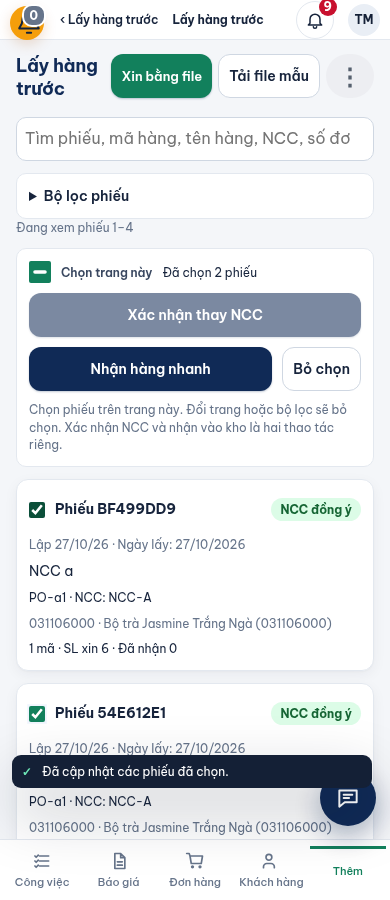
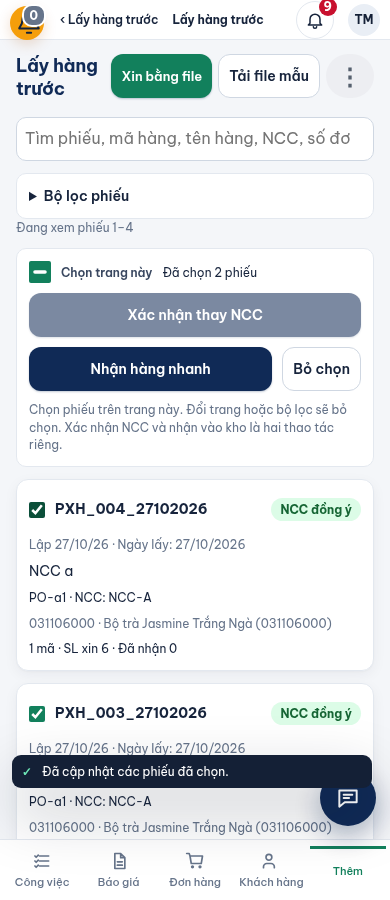
feat: persist daily PXH numbers for early requests

Changed region(s): [[0.1538, 0.7778, 0.5231, 0.8089], [0.1538, 0.56, 0.5231, 0.5911]]

diff --git a/tests/app/early-request-number.test.ts b/tests/app/early-request-number.test.ts
@@ -1,0 +1,56 @@
+import {test} from 'node:test';
+import assert from 'node:assert/strict';
+import {readFileSync} from 'node:fs';
+import {eq} from 'drizzle-orm';
+import {setupEarly} from '../helpers/purchase-early-fixture.ts';
+import {purchaseEarlyRequests as requests} from '../../src/modules/suppliers/early-request-schema.ts';
+import {nextDocumentNumber} from '../../src/core/document-number.ts';
+import {vietnamDate} from '../../src/modules/sales/domain/sales.ts';
+const migration=readFileSync(new URL('../../migrations/postgres/20261027113713_early_request_numbers.sql',import.meta.url),'utf8');
+const ok=(r:any,status=200)=>{assert.equal(r.status,status,JSON.stringify(r.data));return r.data;};
+const body=(clientKey=crypto.randomUUID())=>({clientKey,pickupDate:'2026-10-28',scope:{supplierId:'a'},lines:[{sku:'031106000',quantity:5}]});
+
+test('PXH numbers match the shared document rule, survive edits/submit and retry, reset by Vietnam date and are searchable',async()=>{
+ const f=await setupEarly(),date=vietnamDate().iso,payload=body();
+ const a=ok(await f.call('/purchase-early-requests',f.cookies.mgr,'POST',{...payload,ticketNumber:'PXH_999_01012000'}),201);
+ assert.equal(a.request.ticketNumber,nextDocumentNumber('PXH',date,[]));
+ const replay=ok(await f.call('/purchase-early-requests',f.cookies.mgr,'POST',payload));assert.equal(replay.request.ticketNumber,a.request.ticketNumber);assert.equal(replay.id,a.id);
+ const edited=ok(await f.call('/purchase-early-requests/'+a.id,f.cookies.mgr,'PUT',{revision:a.request.revision,pickupDate:'2026-11-01',lines:[{sku:'031106000',quantity:7}]}));assert.equal(edited.request.ticketNumber,a.request.ticketNumber);
+ const sent=ok(await f.call('/purchase-early-requests/'+a.id+'/submit',f.cookies.mgr,'POST',{revision:edited.request.revision}));assert.equal(sent.request.ticketNumber,a.request.ticketNumber);
+ const found=ok(await f.call('/purchase-early-requests?q='+encodeURIComponent(a.request.ticketNumber),f.cookies.mgr));assert.deepEqual(found.requests.map((r:any)=>r.id),[a.id]);
+ const portal=ok(await f.call('/supplier-portal/early-requests?id='+a.id,f.cookies.ncc));assert.equal(portal.requests[0].ticketNumber,a.request.ticketNumber);
+ const calendar=ok(await f.call('/purchase-receiving-calendar?type=early&q='+a.request.ticketNumber,f.cookies.mgr));assert.ok(calendar.rows.some((r:any)=>r.requestId===a.id&&r.ticketNumber===a.request.ticketNumber));
+ const incoming=ok(await f.call('/purchase-incoming?type=early',f.cookies.mgr));assert.ok(incoming.rows.some((r:any)=>r.earlyRequests.some((e:any)=>e.id===a.id&&e.ticketNumber===a.request.ticketNumber)));
+ const rows=await Promise.all([f.call('/purchase-early-requests',f.cookies.mgr,'POST',body()),f.call('/purchase-early-requests',f.cookies.sa,'POST',body())]);const numbers=rows.map(r=>ok(r,201).request.ticketNumber);assert.equal(new Set(numbers).size,2);assert.ok(numbers.every(n=>n!==a.request.ticketNumber));
+ // Numbers already consumed by a cancelled request remain reserved.
+ const deleted=rows[0]!.data;ok(await f.call('/purchase-early-requests/'+deleted.id,f.cookies.mgr,'DELETE'));const next=ok(await f.call('/purchase-early-requests',f.cookies.mgr,'POST',body()),201);assert.equal(next.request.ticketNumber,nextDocumentNumber('PXH',date,[a.request.ticketNumber,...numbers]));
+ await f.db.insert(requests).values({id:'another-day',clientKey:'another-day',payloadHash:'x',createdBy:'mgr',createdAt:'2026-01-01T17:01:00Z'});assert.equal((await f.db.select().from(requests).where(eq(requests.id,'another-day')))[0]!.ticketNumber,'PXH_001_02012026');
+});
+
+test('split children receive distinct persisted numbers while parent IDs, numbers and allocation/receipt links stay intact',async()=>{
+ const f=await setupEarly(),payload={...body(),lines:[{sku:'031106000',quantity:9000}]};
+ const a=ok(await f.call('/purchase-early-requests',f.cookies.mgr,'POST',payload),201);
+ const split=ok(await f.call('/purchase-early-requests/'+a.id+'/split',f.cookies.mgr,'POST',{}));assert.equal(split.requests.length,2);
+ const childNos=split.requests.map((r:any)=>r.ticketNumber);assert.equal(new Set(childNos).size,2);assert.ok(childNos.every((n:string)=>/^PXH_\d{3,}_\d{8}$/.test(n)&&n!==a.request.ticketNumber));
+ assert.equal((await f.db.select().from(requests).where(eq(requests.id,a.id)))[0]!.ticketNumber,a.request.ticketNumber);
+ const replay=ok(await f.call('/purchase-early-requests/'+a.id+'/split',f.cookies.mgr,'POST',{}));assert.deepEqual(replay.requests.map((r:any)=>r.ticketNumber),childNos);
+});
+
+test('migration upgrades old headers deterministically, keeps deleted numbers, is repeatable and does not change stock/provenance',async()=>{
+ const f=await setupEarly();
+ await f.client.exec('DROP TRIGGER assign_early_request_number ON purchase_early_requests; ALTER TABLE purchase_early_requests DROP COLUMN ticket_number;');
+ for(const [id,created,deleted]of [['old-a','2026-10-26T16:59:00Z',null],['old-b','2026-10-26T17:00:00Z',null],['old-c','2026-10-26T18:00:00Z','2026-10-27T00:00:00Z']])await f.client.query('INSERT INTO purchase_early_requests(id,client_key,payload_hash,created_by,created_at,deleted_at) VALUES($1,$1,\'x\',\'mgr\',$2,$3)',[id,created,deleted]);
+ const before=(await f.client.query<{v:unknown}>("SELECT json_agg(to_jsonb(r) ORDER BY id) v FROM purchase_early_requests r")).rows[0]!.v;
+ const stock=(await f.client.query<{n:number}>('SELECT count(*)::int n FROM stock_moves')).rows[0]!.n;
+ await f.client.exec(migration);const once=await f.client.query('SELECT id,ticket_number FROM purchase_early_requests ORDER BY id');assert.deepEqual(once.rows,[{id:'old-a',ticket_number:'PXH_001_26102026'},{id:'old-b',ticket_number:'PXH_001_27102026'},{id:'old-c',ticket_number:'PXH_002_27102026'}]);
+ assert.deepEqual((await f.client.query<{v:unknown}>("SELECT json_agg(to_jsonb(r)-'ticket_number' ORDER BY id) v FROM purchase_early_requests r")).rows[0]!.v,before);assert.equal((await f.client.query<{n:number}>('SELECT count(*)::int n FROM stock_moves')).rows[0]!.n,stock);
+ await f.client.exec(migration);assert.deepEqual((await f.client.query('SELECT id,ticket_number FROM purchase_early_requests ORDER BY id')).rows,once.rows);
+ await f.db.insert(requests).values({id:'after-upgrade',clientKey:'after-upgrade',payloadHash:'x',createdBy:'mgr',createdAt:'2026-10-27T12:00:00Z'});assert.equal((await f.db.select().from(requests).where(eq(requests.id,'after-upgrade')))[0]!.ticketNumber,'PXH_003_27102026');
+ // Re-deploy does not renumber any request and large sequence numbers are not truncated.
+ await f.db.insert(requests).values({id:'large',ticketNumber:'PXH_999_27102026',clientKey:'large',payloadHash:'x',createdBy:'mgr',createdAt:'2026-10-27T12:00:00Z'});
+ await f.db.insert(requests).values({id:'large-next',clientKey:'large-next',payloadHash:'x',createdBy:'mgr',createdAt:'2026-10-27T12:00:00Z'});assert.equal((await f.db.select().from(requests).where(eq(requests.id,'large-next')))[0]!.ticketNumber,'PXH_1000_27102026');
+ await f.client.exec(migration);assert.equal((await f.db.select().from(requests).where(eq(requests.id,'large-next')))[0]!.ticketNumber,'PXH_1000_27102026');
+ await assert.rejects(f.db.insert(requests).values({id:'duplicate-number',ticketNumber:'PXH_1000_27102026',clientKey:'duplicate-number',payloadHash:'x',createdBy:'mgr',createdAt:'2026-10-27T12:00:00Z'}));
+ const security=(await f.client.query<{prosecdef:boolean}>("SELECT prosecdef FROM pg_proc WHERE oid='public.assign_early_request_number()'::regprocedure")).rows[0]!;assert.equal(security.prosecdef,false);
+ assert.ok(readFileSync(new URL('../../.github/workflows/deploy-api.yml',import.meta.url),'utf8').includes('20261027113713_early_request_numbers.sql'));
+});

diff --git a/trial-ui/purchase-early-requests.js b/trial-ui/purchase-early-requests.js
@@ -47,7 +47,7 @@ export function initEarlyRequests({api,host,canWrite=()=>false,portal=false,supp
     list.replaceChildren();operations.replaceChildren();selected.clear();selectable=[];all.checked=false;syncBatch();bulk.hidden=portal||!canViewPortal;
     if(!requests.length) list.append(el('p','muted','Chưa có phiếu xin lấy trước.'));
     if(!portal&&canViewPortal)for(const request of requests){
-      const groups=supplierSlips(request),bar=el('div','row-gap');bar.append(el('span','small','Phiếu '+request.id.slice(0,8).toUpperCase()));
+      const groups=supplierSlips(request),bar=el('div','row-gap');bar.append(el('span','small','Phiếu '+(request.ticketNumber||request.id.slice(0,8).toUpperCase())));
       if(groups.length>1)bar.append(btn('Tách thành '+groups.length+' phiếu NCC',()=>changeRequest(request,'split')));
       operations.append(bar);
     }
@@ -55,7 +55,7 @@ export function initEarlyRequests({api,host,canWrite=()=>false,portal=false,supp
     for(const request of requests.flatMap(r=>!portal&&r.requestStatus==='submitted'?supplierSlips(r):[r])) {
       const card=el('article','card early-request-card'),head=el('div','row-gap early-request-head');card.dataset.requestId=request.id;
       const browse=portal&&portalNavigation?.canBrowse(),heading=el('strong'),ordersForHeading=new Map(request.lines.flatMap(l=>l.allocations).map(a=>[a.orderId,a.ticketNumber]));
-      const titleText=request.slipLabel||'Phiếu lấy trước '+request.id.slice(0,8).toUpperCase();
+      const titleText=request.slipLabel||'Phiếu lấy trước '+(request.ticketNumber||request.id.slice(0,8).toUpperCase());
       if(!portal&&request.groupKey&&ordersForHeading.size===1){const a=el('a','early-order-link',titleText);a.href='#/purchases/'+encodeURIComponent(ordersForHeading.keys().next().value);heading.append(a);}
       else if(browse){const a=el('a','early-order-link',titleText);a.href='/#/early-requests/'+encodeURIComponent(request.id);heading.append(a);}
       else heading.append(el('span','',titleText));
@@ -123,7 +123,7 @@ export function initEarlyRequests({api,host,canWrite=()=>false,portal=false,supp
     const slip=action==='cancel-slip',remove=action==='delete'||action==='cancel-delete'||slip,cancel=action==='cancel-delete'||slip,modal=confirmDialog=el('dialog','modal early-request-dialog'),head=el('div','modal-head'),body=el('div','modal-body'),foot=el('div','modal-foot');let busy=false;
     const close=btn('Đóng',()=>{if(!busy)modal.close();});head.append(el('h2','',cancel?'Huỷ phiếu xin hàng và xoá':remove?'Xoá phiếu xin hàng':'Tách theo số đơn NCC'),close);
     const groups=supplierSlips(request);
-    body.append(el('p','',slip?'Huỷ và xoá '+request.slipLabel+', gồm '+request.lines.length+' mã hàng.':remove?(cancel?'Huỷ yêu cầu xin lấy trước và xoá toàn bộ phiếu ':'Xoá toàn bộ phiếu ')+request.id.slice(0,8).toUpperCase()+', gồm '+groups.length+' nhóm nguồn và '+request.lines.length+' mã hàng.':'Lưu '+groups.length+' phiếu riêng theo NCC + số đơn NCC; giữ nguyên số lượng và trạng thái phản hồi.'));
+    body.append(el('p','',slip?'Huỷ và xoá '+request.slipLabel+', gồm '+request.lines.length+' mã hàng.':remove?(cancel?'Huỷ yêu cầu xin lấy trước và xoá toàn bộ phiếu ':'Xoá toàn bộ phiếu ')+(request.ticketNumber||request.id.slice(0,8).toUpperCase())+', gồm '+groups.length+' nhóm nguồn và '+request.lines.length+' mã hàng.':'Lưu '+groups.length+' phiếu riêng theo NCC + số đơn NCC; giữ nguyên số lượng và trạng thái phản hồi.'));
     if(slip)body.append(el('p','','Chỉ huỷ phiếu NCC này. Các phiếu NCC khác được giữ nguyên.'));
     for(const group of groups)body.append(el('p','small',group.supplierName+' · '+group.slipLabel+' · '+group.lines.map(l=>l.sku+' × '+number(l.quantity)).join('; ')));
     body.append(el('p','muted small',cancel?'Sau xác nhận, phiếu không còn trên CRM và cổng NCC, không thể tiếp tục nhận theo phiếu này. Phiếu NCC đã phát sinh nhận hàng sẽ bị chặn. Phiếu NCC chưa nhận vẫn được huỷ riêng. Đơn mua NCC, tồn kho và nhật ký đối soát được giữ nguyên.':'Phiếu đã phát sinh nhận hàng sẽ bị chặn. Không thay đổi tồn kho hoặc xoá đơn mua NCC.'));

diff --git a/trial-ui/early-list-bulk.js b/trial-ui/early-list-bulk.js
@@ -22,7 +22,7 @@ export function earlyListBulk({api,onSaved}){
  }
  all.onchange=()=>{selected.clear();if(all.checked)for(const r of visible)if(eligible(r))selected.set(r.id,r);sync();};
  function reset(requests=[],permissions={}){generation++;visible=requests;canConfirm=!!permissions.canViewPortal;canReceive=!!permissions.canReceive;selected.clear();checks.clear();error.textContent='';host.hidden=!canConfirm&&!canReceive;sync();}
- function checkbox(request){if(!eligible(request))return null;const input=el('input');input.type='checkbox';input.className='early-list-check';input.setAttribute('aria-label','Chọn phiếu '+request.id.slice(0,8).toUpperCase());checks.set(request.id,input);input.onchange=()=>{if(input.checked)selected.set(request.id,request);else selected.delete(request.id);sync();};sync();return input;}
+ function checkbox(request){if(!eligible(request))return null;const input=el('input');input.type='checkbox';input.className='early-list-check';input.setAttribute('aria-label','Chọn phiếu '+(request.ticketNumber||request.id.slice(0,8).toUpperCase()));checks.set(request.id,input);input.onchange=()=>{if(input.checked)selected.set(request.id,request);else selected.delete(request.id);sync();};sync();return input;}
  async function fresh(ids){const requests=[];for(const id of ids){const data=await api('/purchase-early-requests?id='+encodeURIComponent(id));const request=data.requests.find(r=>r.id===id);if(!request)throw Error('Phiếu đã tách, huỷ hoặc thay đổi. Tải lại danh sách rồi chọn lại.');requests.push(request);}return requests;}
  async function run(action){if(busy||!selected.size)return;busy=true;const mine=generation;sync();error.textContent='';
   try{const requests=await fresh(visible.filter(r=>selected.has(r.id)).map(r=>r.id));if(mine!==generation)return;if(action==='confirm')review(requests);else await openEarlyQuickReceipt({api,requests,onSaved});}
@@ -34,7 +34,7 @@ export function earlyListBulk({api,onSaved}){
   const modal=el('dialog','modal early-request-dialog early-bulk-confirm'),head=el('div','modal-head'),body=el('div','modal-body'),foot=el('div','modal-foot');modal.dataset.mobileActions='off';let saving=false;
   const close=button('Đóng',()=>{if(!saving)modal.close();});head.append(el('h2','','Xác nhận thay NCC các phiếu đã chọn'),close);
   body.append(el('p','','Chỉ xác nhận các dòng đang chờ mà NCC đã đồng ý. Không nhận hàng hay cộng tồn kho. Các dòng đã phản hồi giữ nguyên.'));
-  for(const r of targets)body.append(el('p','','Phiếu '+r.id.slice(0,8).toUpperCase()+' · '+r.lines.filter(l=>l.allocations.some(a=>a.status==='pending')).map(l=>l.sku+' · '+l.allocations.filter(a=>a.status==='pending').map(a=>a.supplierName+' / '+(a.supplierOrderNo||a.ticketNumber)+' / '+Number(a.quantity).toLocaleString('vi-VN')+' '+(l.unit||'')).join('; ')).join('; ')));
+  for(const r of targets)body.append(el('p','','Phiếu '+(r.ticketNumber||r.id.slice(0,8).toUpperCase())+' · '+r.lines.filter(l=>l.allocations.some(a=>a.status==='pending')).map(l=>l.sku+' · '+l.allocations.filter(a=>a.status==='pending').map(a=>a.supplierName+' / '+(a.supplierOrderNo||a.ticketNumber)+' / '+Number(a.quantity).toLocaleString('vi-VN')+' '+(l.unit||'')).join('; ')).join('; ')));
   const message=el('p','error');message.setAttribute('role','alert');body.append(message);
   const save=button('Xác nhận '+targets.length+' phiếu',async()=>{if(saving)return;saving=busy=true;close.disabled=save.disabled=true;sync();message.textContent='';
    try{await api('/purchase-early-requests/manager-confirm-batch','POST',{allocationIds});modal.close();await onSaved();}

diff --git a/trial-ui/kho.js b/trial-ui/kho.js
@@ -54,7 +54,7 @@ export function initKhoHome({ api, root, today }) {
       if(d.shipping){cards.append(card('🛻','Giao hôm nay & trễ','#/deliveries',d.shipping.due,d.shipping.tomorrow+' chuyến ngày mai · '+d.shipping.failed+' giao lỗi',d.shipping.due?'warn':''));lists.append(section('🛻 Giao hàng & giao lỗi cần xử lý','#/deliveries',d.shipping.rows.map(x=>({href:'#/deliveries?deliveryId='+encodeURIComponent(x.id),title:x.deliveryNo+' · '+x.customerName,sub:[x.status==='failed'?'Giao lỗi':x.plannedDate<t?'Trễ hẹn':x.plannedDate===t?'Hôm nay':'Ngày mai',dmy(x.plannedDate),x.address].filter(Boolean).join(' · ')})),'Không có chuyến giao chờ xử lý đến ngày mai.'));}
       cards.append(card('⇄','Điều chuyển kho','#/transfers',d.transfers.count,d.transfers.pending+' chờ duyệt · '+d.transfers.approved+' chờ chuyển',d.transfers.count?'warn':''));
       lists.append(section('⇄ Phiếu điều chuyển đang mở','#/transfers',d.transfers.rows.map(x=>({href:'#/transfers/'+encodeURIComponent(x.id),title:x.transferNo,sub:x.fromName+' → '+x.toName+' · '+(x.status==='approved'?'Đã duyệt – chờ kho chuyển':'Chờ duyệt')})),'Không có phiếu điều chuyển chờ xử lý.'));
-      if(d.early){cards.append(card('📝','Phiếu xin hàng trước','#/receiving?type=early&workOnly=1',d.early.count,'phiếu đã gửi, còn chờ NCC hoặc nhận hàng',d.early.count?'warn':''));lists.append(section('📝 Phiếu xin hàng trước cần theo dõi','#/receiving?type=early&workOnly=1',d.early.rows.map(x=>({href:'#/early-requests/'+encodeURIComponent(x.requestId),title:'Phiếu '+x.requestId.slice(0,8).toUpperCase()+' · '+x.supplierName,sub:[x.date?'Ngày lấy '+dmy(x.date):'Chưa hẹn ngày',x.lines.some(l=>l.receiptOptions?.length)?'NCC đồng ý – còn hàng chờ nhận':'Chờ NCC phản hồi',x.lines.length+' mã'].join(' · ')})),'Không có phiếu xin hàng trước chờ xử lý.'));}
+      if(d.early){cards.append(card('📝','Phiếu xin hàng trước','#/receiving?type=early&workOnly=1',d.early.count,'phiếu đã gửi, còn chờ NCC hoặc nhận hàng',d.early.count?'warn':''));lists.append(section('📝 Phiếu xin hàng trước cần theo dõi','#/receiving?type=early&workOnly=1',d.early.rows.map(x=>({href:'#/early-requests/'+encodeURIComponent(x.requestId),title:(x.ticketNumber||('Phiếu '+x.requestId.slice(0,8).toUpperCase()))+' · '+x.supplierName,sub:[x.date?'Ngày lấy '+dmy(x.date):'Chưa hẹn ngày',x.lines.some(l=>l.receiptOptions?.length)?'NCC đồng ý – còn hàng chờ nhận':'Chờ NCC phản hồi',x.lines.length+' mã'].join(' · ')})),'Không có phiếu xin hàng trước chờ xử lý.'));}
       if(d.sapo){cards.append(card('📥','Chờ nhập kho Sapo','#/purchases?state=sapo',d.sapo.count,'đơn có phiếu nhận chờ xử lý Sapo',d.sapo.count?'warn':''));lists.append(section('📥 Phiếu nhận chờ nhập Sapo','#/purchases?state=sapo',d.sapo.rows.map(x=>({href:'#/purchases/'+encodeURIComponent(x.id),title:x.ticketNumber+' · '+x.supplierName,sub:x.pending+' phiếu nhận chờ nhập Sapo hoặc cần kiểm tra lỗi'})),'Không có phiếu nhận chờ nhập Sapo.'));}
     }catch(e){if(my===req){cards.replaceChildren();lists.replaceChildren(el('p','error card',e.message||'Không tải được việc cần làm. Bấm Làm mới để thử lại.'));}}
     finally{if(my===req)reload.disabled=false;}

diff --git a/trial-ui/early-receipt-quick.js b/trial-ui/early-receipt-quick.js
@@ -10,7 +10,7 @@ export async function openEarlyQuickReceipt({api,request,requests=request?[reque
  if(active?.isConnected){active.focus();return;}
  const modal=active=el('dialog','modal early-request-dialog early-quick-receipt'),head=el('div','modal-head'),form=el('form'),body=el('div','modal-body'),foot=el('div','modal-foot');
  modal.dataset.mobileActions='off';
- const title=el('div');title.append(el('h2','','Nhận hàng nhanh theo phiếu xin'),el('p','small muted',requests.map(r=>'Phiếu '+r.id.slice(0,8).toUpperCase()+(r.slipLabel?' · '+r.slipLabel:'')).join(' · ')));
+ const title=el('div');title.append(el('h2','','Nhận hàng nhanh theo phiếu xin'),el('p','small muted',requests.map(r=>'Phiếu '+(r.ticketNumber||r.id.slice(0,8).toUpperCase())+(r.slipLabel?' · '+r.slipLabel:'')).join(' · ')));
  const close=el('button','btn secondary','Đóng');close.type='button';close.dataset.noBusy='';head.append(title,close);
  const status=el('p','small muted','Đang tải các mã còn được nhận…'),error=el('p','error');error.setAttribute('role','alert');status.setAttribute('role','status');
  const today=new Date(Date.now()+7*3600000).toISOString().slice(0,10),date=Object.assign(el('input'),{type:'date',value:today,max:today,required:true});date.setAttribute('aria-label','Ngày nhận');
@@ -37,7 +37,7 @@ export async function openEarlyQuickReceipt({api,request,requests=request?[reque
    const limit=quantity(Math.min(line.remaining,allocs.reduce((s,a)=>s+Number(a.remainingToReceive||0),0)));if(!source||limit<=0)continue;
    const key=context.orderId+':'+line.lineId,budget=quantity(Math.min(...allocs.map(a=>Number(a.purchaseRemaining??line.remaining))));budgets.set(key,Math.min(budgets.get(key)??Infinity,budget));
    const card=el('section','recv-card'),input=Object.assign(el('input'),{type:'number',min:'0',step:'0.001',max:String(limit),value:String(limit),required:true});input.inputMode='decimal';input.setAttribute('aria-label','SL nhận '+line.sku+' · '+context.ticketNumber);input.dataset.earlyQuickQuantity=line.lineId;
-   card.append(el('b','',source.name.includes(line.sku)?source.name:source.name+' ('+line.sku+')'),el('p','small muted','Phiếu '+request.id.slice(0,8).toUpperCase()+' · '+context.ticketNumber+' · Còn được nhận '+num(limit)+' '+(source.unit||'')),field('Số lượng hàng đạt nhập kho',input));cards.append(card);rows.push({input,limit,context,line,request,key});controls.push(input);input.addEventListener('input',sync);
+   card.append(el('b','',source.name.includes(line.sku)?source.name:source.name+' ('+line.sku+')'),el('p','small muted','Phiếu '+(request.ticketNumber||request.id.slice(0,8).toUpperCase())+' · '+context.ticketNumber+' · Còn được nhận '+num(limit)+' '+(source.unit||'')),field('Số lượng hàng đạt nhập kho',input));cards.append(card);rows.push({input,limit,context,line,request,key});controls.push(input);input.addEventListener('input',sync);
   }
   if(!rows.length)throw Error('Phiếu không còn mã được nhận. Đóng và tải lại phiếu.');
   const assigned=new Map();for(const r of rows){const value=quantity(Math.max(0,Math.min(r.limit,budgets.get(r.key)-(assigned.get(r.key)||0))));r.input.value=String(value);assigned.set(r.key,(assigned.get(r.key)||0)+value);}

diff --git a/src/modules/suppliers/api/incoming-view.ts b/src/modules/suppliers/api/incoming-view.ts
@@ -13,7 +13,7 @@ export async function incomingBySkuView(db: Db, query: URLSearchParams, today: s
   const saved = type==='purchase'||!sources.size ? [] : await db.select({request:requests,line:lines,allocation:allocations})
     .from(requests).innerJoin(lines,eq(lines.requestId,requests.id)).innerJoin(allocations,eq(allocations.requestLineId,lines.id))
     .where(and(isNull(requests.deletedAt),inArray(allocations.purchaseLineId,[...sources.keys()]))).orderBy(desc(requests.createdAt),desc(requests.id),asc(lines.lineNo),asc(allocations.id));
-  type Early = {id:string;lineId:string;createdAt:string;pickupDate:string;requestStatus:string;status:string;quantity:number;supplierId:string;supplierName:string;orders:{id:string;ticketNumber:string;quantity:number}[]};
+  type Early = {id:string;ticketNumber:string;lineId:string;createdAt:string;pickupDate:string;requestStatus:string;status:string;quantity:number;supplierId:string;supplierName:string;orders:{id:string;ticketNumber:string;quantity:number}[]};
   const bySku = new Map<string,Map<string,{value:Early;statuses:string[]}>>();
   for(const {request,line,allocation} of saved){
     const source=sources.get(allocation.purchaseLineId)!;
@@ -21,7 +21,7 @@ export async function incomingBySkuView(db: Db, query: URLSearchParams, today: s
     const grouped=bySku.get(line.sku)||new Map<string,{value:Early;statuses:string[]}>();bySku.set(line.sku,grouped);
     const key=request.id+':'+allocation.supplierId;
     let entry=grouped.get(key);
-    if(!entry){entry={value:{id:request.id,lineId:line.id,createdAt:request.createdAt,pickupDate:request.pickupDate,requestStatus:request.status,status:'',quantity:0,
+    if(!entry){entry={value:{id:request.id,ticketNumber:request.ticketNumber,lineId:line.id,createdAt:request.createdAt,pickupDate:request.pickupDate,requestStatus:request.status,status:'',quantity:0,
       supplierId:allocation.supplierId,supplierName:source.order.supplierName,orders:[]},statuses:[]};grouped.set(key,entry);}
     entry.value.quantity+=allocation.quantity;entry.statuses.push(allocation.status);
     entry.value.orders.push({id:source.order.id,ticketNumber:source.order.ticketNumber,quantity:allocation.quantity});

diff --git a/src/modules/suppliers/early-request-schema.ts b/src/modules/suppliers/early-request-schema.ts
@@ -4,12 +4,12 @@ import { employees } from '../staff/schema.ts';
 import { incomingShipmentLines, suppliers } from './schema.ts';
 
 export const purchaseEarlyRequests = pgTable('purchase_early_requests', {
-  id: text('id').primaryKey(), clientKey: text('client_key').notNull(), payloadHash: text('payload_hash').notNull(),
+  id: text('id').primaryKey(), ticketNumber:text('ticket_number').notNull().default(''), clientKey: text('client_key').notNull(), payloadHash: text('payload_hash').notNull(),
   createdBy: text('created_by').notNull().references(() => employees.id), createdAt: text('created_at').notNull(),
   status: text('status',{enum:['draft','submitted']}).notNull().default('submitted'), pickupDate: text('pickup_date').notNull().default(''),
   deletedAt:text('deleted_at'),deletedBy:text('deleted_by').references(()=>employees.id),
   scope: text('scope').notNull().default('{}'), updatedAt: text('updated_at').notNull().default(''), revision: bigint('revision',{mode:'number'}).notNull().default(1),
-}, t => [uniqueIndex('idx_purchase_early_requests_key').on(t.createdBy,t.clientKey), index('idx_purchase_early_requests_created').on(t.createdAt),
+}, t => [uniqueIndex('idx_purchase_early_requests_number').on(t.ticketNumber).where(sql`${t.ticketNumber}<>''`), uniqueIndex('idx_purchase_early_requests_key').on(t.createdBy,t.clientKey), index('idx_purchase_early_requests_created').on(t.createdAt),
   check('chk_purchase_early_request_status',sql`${t.status} in ('draft','submitted')`)]).enableRLS();
 export const purchaseEarlyRequestLines = pgTable('purchase_early_request_lines', {
   id: text('id').primaryKey(), requestId: text('request_id').notNull().references(() => purchaseEarlyRequests.id),

diff --git a/src/modules/suppliers/api/receiving-calendar.ts b/src/modules/suppliers/api/receiving-calendar.ts
@@ -54,10 +54,10 @@ export async function receivingCalendar(db: Db, params: URLSearchParams, today: 
     if (!purchase || (supplier && allocation.supplierId !== supplier)) continue;
     const date = request.pickupDate || null;
     if (!matchesDate(date) || (sku && !fold(line.sku).includes(sku))) continue;
-    if (q && !fold(['Phiếu xin lấy trước',request.id,purchase.ticketNumber,supplierName,line.sku,line.name].join(' ')).includes(q)) continue;
+    if (q && !fold(['Phiếu xin lấy trước',request.id,request.ticketNumber,purchase.ticketNumber,supplierName,line.sku,line.name].join(' ')).includes(q)) continue;
     const key = 'early:'+request.id+':'+allocation.supplierId;
     let group=groups.get(key);
-    if(!group){group={type:'early',orderId:purchase.orderId,requestId:request.id,supplierId:allocation.supplierId,ticketNumber:'Phiếu xin lấy trước',supplierName,date,createdAt:request.createdAt,lines:[]};groups.set(key,group);}
+    if(!group){group={type:'early',orderId:purchase.orderId,requestId:request.id,supplierId:allocation.supplierId,ticketNumber:request.ticketNumber||'Phiếu xin lấy trước',supplierName,date,createdAt:request.createdAt,lines:[]};groups.set(key,group);}
     let saved=group.lines.find(l=>l.lineId===line.id);
     if(!saved){const own=ownLines.get(line.id+':'+allocation.supplierId)!;saved={lineId:line.id,sku:line.sku,name:line.name,unit:line.unit,left:0,requestedQty:own.quantity,
       status:request.status==='draft'?'draft':own.statuses.every(s=>s===own.statuses[0])?own.statuses[0]!:'mixed',

diff --git a/trial-ui/early-request-page.js b/trial-ui/early-request-page.js
@@ -49,7 +49,7 @@ export function initEarlyRequestPage({api,root,go,today,toast}){
   try{const data=await api('/purchase-early-requests?'+p);if(mine!==sequence)return;
    canSend=!!data.canSend;file.hidden=incoming.hidden=!canSend;nextOffset=data.nextOffset;list.replaceChildren();selection.reset(data.requests,data);
    for(const request of data.requests){
-    const card=node('article','card early-page-card'),head=node('div','early-page-card-head'),open=node('a','data-link','Phiếu '+request.id.slice(0,8).toUpperCase());open.href=requestHref(request.id);
+    const card=node('article','card early-page-card'),head=node('div','early-page-card-head'),open=node('a','data-link',request.ticketNumber||'Phiếu '+request.id.slice(0,8).toUpperCase());open.href=requestHref(request.id);
     const title=node('div','early-list-title'),check=selection.checkbox(request);if(check)title.append(check);title.append(open);head.append(title,node('span','sup-pill early-status early-status-'+request.status,labels[request.status]||request.status));
     const allocations=request.lines.flatMap(l=>l.allocations),names=[...new Set(allocations.map(a=>a.supplierName))],orders=[...new Set(allocations.map(a=>a.ticketNumber+(a.supplierOrderNo?' · NCC: '+a.supplierOrderNo:'')))];
     const created=new Intl.DateTimeFormat('vi-VN',{dateStyle:'short',timeZone:'Asia/Ho_Chi_Minh'}).format(new Date(request.createdAt));

diff --git a/trial-ui/purchase-early-file.js b/trial-ui/purchase-early-file.js
@@ -111,7 +111,7 @@ export function openEarlyRequestFile({api,loadXlsx,suppliers,today,go,requestHre
       const savedRequests=data.requests||[saved];
       status.textContent='Đã lưu '+savedRequests.length+' phiếu nháp theo số đơn NCC. Kiểm tra từng phiếu trước khi gửi NCC.';
       for(const request of savedRequests){
-      const ref=request.lines?.[0]?.allocations?.[0]?.supplierOrderNo||request.lines?.[0]?.allocations?.[0]?.ticketNumber||request.id.slice(0,8);
+      const ref=request.ticketNumber||request.lines?.[0]?.allocations?.[0]?.supplierOrderNo||request.lines?.[0]?.allocations?.[0]?.ticketNumber||request.id.slice(0,8);
       const link=el('a','btn primary',savedRequests.length>1?'Mở phiếu · '+ref:'Mở phiếu / Gửi NCC');link.href=requestHref(request.id);
       link.addEventListener('click',e=>{if(!e.ctrlKey&&!e.metaKey&&e.button===0){e.preventDefault();dialog.close();go(link.getAttribute('href'));}});foot.append(link);}
     }catch(e){uncertain=!e.status||e.status>=500;error.textContent=(e.message||'Không lưu được phiếu.')+(uncertain?' Chưa rõ kết quả; bấm Thử lưu lại để kiểm tra đúng lần lưu này.':'');}

diff --git a/trial-ui/purchase-incoming.js b/trial-ui/purchase-incoming.js
@@ -55,7 +55,7 @@ export function initPurchaseIncoming({ api, host, go }) {
   }
   const requestLabels={draft:'Nháp — chưa gửi NCC',pending:'Chờ NCC xác nhận',accepted:'NCC đồng ý',rejected:'NCC từ chối',mixed:'NCC phản hồi khác nhau'};
   function requestNode(request){
-    const row=el('div','incoming-order incoming-early-order'),link=el('a','data-link','Phiếu lấy trước · '+new Date(request.createdAt).toLocaleString('vi-VN',{timeZone:'Asia/Ho_Chi_Minh'}));
+    const row=el('div','incoming-order incoming-early-order'),link=el('a','data-link',(request.ticketNumber||'Phiếu lấy trước')+' · '+new Date(request.createdAt).toLocaleString('vi-VN',{timeZone:'Asia/Ho_Chi_Minh'}));
     link.href='#/purchases?mode=incoming&request='+encodeURIComponent(request.id);
     link.addEventListener('click',e=>{if(!e.ctrlKey&&!e.metaKey&&e.button===0){e.preventDefault();go(link.getAttribute('href'));}});
     row.append(link,el('span','',request.supplierName),el('span','',number(request.quantity)+' · '+requestLabels[request.status]),el('span','','Ngày lấy: '+date(request.pickupDate)));

diff --git a/src/modules/suppliers/api/early-request-routes.ts b/src/modules/suppliers/api/early-request-routes.ts
@@ -93,7 +93,7 @@ export async function earlyRequestList(db:Db, supplierId:string|null, id:string|
   return headers.map(h=>{
     const own=details.filter(d=>d.line.requestId===h.id),groups=new Map<string,typeof own>();
     for(const d of own) { const group=groups.get(d.line.id)||[];group.push(d);groups.set(d.line.id,group); }
-    return {id:h.id,createdAt:h.createdAt,updatedAt:h.updatedAt||h.createdAt,pickupDate:h.pickupDate,revision:h.revision,requestStatus:h.status,
+    return {id:h.id,ticketNumber:h.ticketNumber,createdAt:h.createdAt,updatedAt:h.updatedAt||h.createdAt,pickupDate:h.pickupDate,revision:h.revision,requestStatus:h.status,
       ...(!supplierId?{createdBy:h.createdBy,scope:JSON.parse(h.scope)}:{}),status:h.status==='draft'?'draft':stateOf(own.map(d=>d.allocation.status)),
       lines:[...groups].map(([lineId,group])=>({id:lineId,sku:group[0]!.line.sku,name:group[0]!.catalogName?.trim()||group[0]!.line.name,unit:group[0]!.line.unit,
         // Supplier sees ONLY its quantities/statuses, never a cross-supplier line total.
